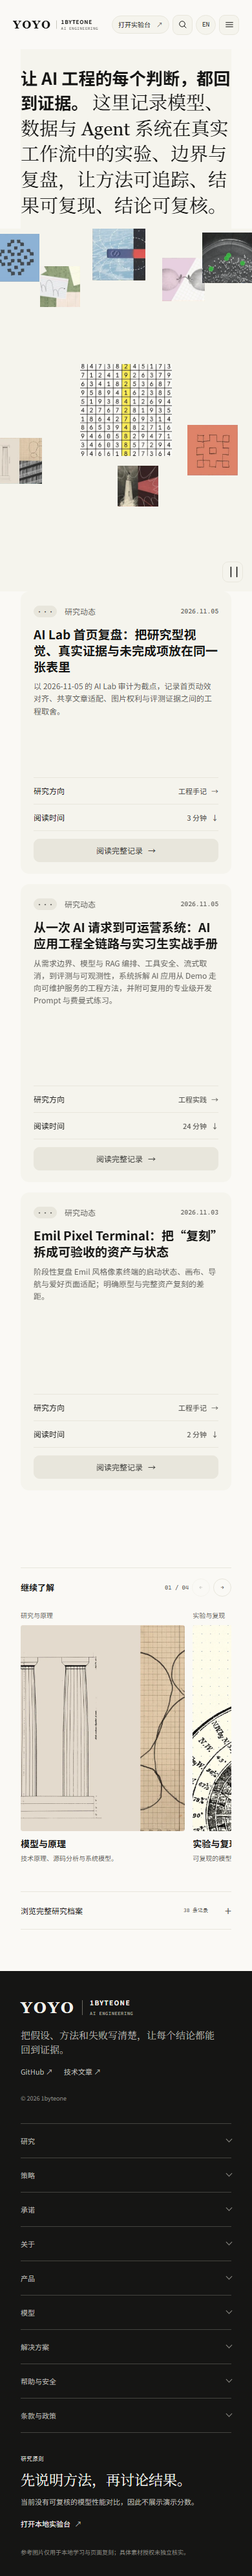
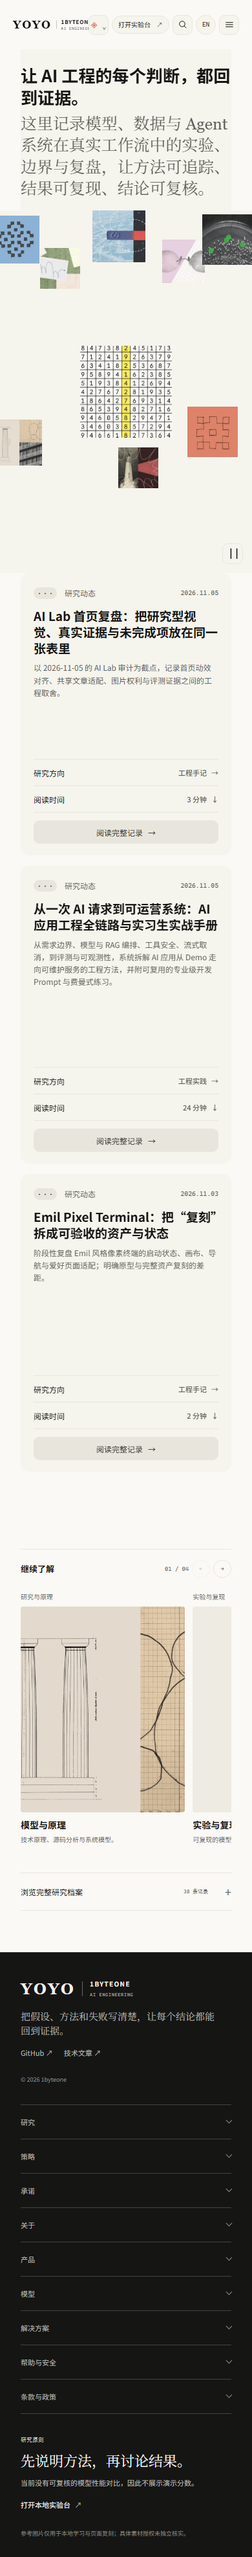
fix: align ai lab theme switcher and hero typography

diff --git a/static/css/ai-lab.css b/static/css/ai-lab.css
@@ -672,6 +672,58 @@ body.ai-lab-home-page .al-ref-header[data-scrolled="true"] .al-ref-brand-compact
 .al-ref-try:hover { border-color: var(--al-home-control-hover-border); background: var(--al-home-control-hover); }
 .al-ref-try span { color: var(--al-muted); transition: transform 170ms ease; }
 .al-ref-try:hover span { transform: translate(2px,-2px); }
+.ai-lab-page .theme-manager {
+  --tm-ink: var(--al-ink);
+  --tm-muted: var(--al-muted);
+  --tm-line: var(--al-line);
+  --tm-surface: var(--al-paper);
+  --tm-hover: var(--al-home-control-hover);
+  --tm-accent: var(--al-accent);
+  font-family: var(--al-sans);
+}
+.ai-lab-page .theme-manager-trigger {
+  min-height: 28px;
+  gap: 7px;
+  padding: 0 10px;
+  border-color: var(--al-line);
+  border-radius: 999px;
+  background: var(--al-home-pill);
+  color: var(--al-ink);
+  font-size: 11px;
+}
+.ai-lab-page .theme-manager-trigger:hover,
+.ai-lab-page .theme-manager[open] > .theme-manager-trigger {
+  border-color: var(--al-line-strong);
+  background: var(--al-home-control-hover);
+  box-shadow: 0 0 0 1px var(--al-line-strong);
+}
+.ai-lab-page .theme-manager-trigger-icon { color: var(--al-accent); font-size: 13px; }
+.ai-lab-page .theme-manager-trigger-copy { max-width: 90px; }
+.ai-lab-page .theme-manager-trigger-copy > span { color: var(--al-muted); font-family: var(--al-mono); font-size: 8px; }
+.ai-lab-page .theme-manager-trigger-copy strong { font-size: 10px; font-weight: 650; }
+.ai-lab-page .theme-manager-trigger-chevron { color: var(--al-muted); font-size: 12px; }
+.ai-lab-page .theme-manager-panel {
+  top: calc(100% + 10px);
+  width: min(380px, calc(100vw - 32px));
+  border-color: var(--al-line);
+  border-radius: 14px;
+  background: var(--al-paper);
+  box-shadow: 0 20px 60px rgb(20 20 18 / 16%);
+}
+.ai-lab-page .theme-manager-heading { padding: 15px 16px 12px; border-color: var(--al-line); }
+.ai-lab-page .theme-manager-eyebrow { color: var(--al-accent); letter-spacing: .08em; }
+.ai-lab-page .theme-manager-heading strong { font-family: var(--al-serif); font-size: 16px; font-weight: 400; }
+.ai-lab-page .theme-manager-center-link { color: var(--al-accent); font-family: var(--al-mono); font-size: 9px; }
+.ai-lab-page .theme-manager-search { margin: 11px 14px 8px; border-color: var(--al-line); border-radius: 8px; }
+.ai-lab-page .theme-manager-shortlist { padding-inline: 15px; border-color: color-mix(in srgb, var(--al-line) 76%, transparent); }
+.ai-lab-page .theme-manager-quick-item { padding: 6px 4px; border-radius: 7px; }
+.ai-lab-page .theme-manager-quick-item:hover { background: var(--al-home-control-hover); }
+.ai-lab-page .theme-manager-quick-link strong { font-size: 11px; }
+.ai-lab-page .theme-manager-quick-link small { font-size: 9px; }
+.ai-lab-page .theme-manager-star[aria-pressed="true"], .ai-lab-page .theme-manager-star:hover { color: var(--al-accent); }
+.ai-lab-page .theme-manager-default-row { padding: 12px 15px; }
+.ai-lab-page .theme-manager-set-default { border-color: var(--al-line); border-radius: 999px; }
+.ai-lab-page .theme-manager-set-default:hover, .ai-lab-page .theme-manager-set-default[aria-pressed="true"] { border-color: var(--al-accent); background: var(--al-accent); color: #fff; }
 .al-ref-icon, .al-ref-menu-toggle {
   width: 28px;
   height: 28px;
@@ -743,14 +795,14 @@ body.ai-lab-home-page .al-ref-header[data-scrolled="true"] .al-ref-brand-compact
 .al-home-stage[data-art-error="true"] .al-home-art-canvas { opacity: 0; }
 .al-home-stage-stories { position: absolute; z-index: 2; inset: 0; display: grid; align-items: center; justify-items: center; padding: 24px 28px 66px; pointer-events: none; }
 .al-home-stage-stories[inert] { user-select: none; }
-.al-home-story { grid-area: 1 / 1; width: min(760px, calc(100% - 48px)); min-height: 0; padding: 34px clamp(20px, 5vw, 56px); border: 1px solid color-mix(in srgb, var(--al-line) 78%, transparent); border-radius: 10px; background: color-mix(in srgb, var(--al-home-panel) 92%, transparent); box-shadow: 0 18px 55px rgb(20 20 18 / 10%); backdrop-filter: blur(12px); text-align: center; pointer-events: none; opacity: 0; visibility: hidden; transform: translateY(12px); transition: opacity 300ms cubic-bezier(.16,1,.3,1), transform 360ms cubic-bezier(.16,1,.3,1), visibility 300ms; }
+.al-home-story { grid-area: 1 / 1; width: min(760px, calc(100% - 48px)); min-height: 0; padding: clamp(30px, 4vw, 46px) clamp(24px, 5vw, 52px); border: 1px solid color-mix(in srgb, var(--al-line) 78%, transparent); border-radius: 10px; background: color-mix(in srgb, var(--al-home-panel) 99%, transparent); box-shadow: 0 18px 55px rgb(20 20 18 / 10%); backdrop-filter: blur(12px); text-align: center; pointer-events: none; opacity: 0; visibility: hidden; transform: translateY(12px); transition: opacity 300ms cubic-bezier(.16,1,.3,1), transform 360ms cubic-bezier(.16,1,.3,1), visibility 300ms; }
 .al-home-stage-stories[data-visible="true"] .al-home-story.is-active { opacity: 1; visibility: visible; transform: translateY(0) scale(1); pointer-events: auto; }
 
 .al-home-story-copy { max-width: 560px; }
 .al-home-kicker { margin: 0 0 13px; color: var(--al-muted); font-family: var(--al-mono); font-size: 11px; letter-spacing: .08em; line-height: 1.4; text-transform: uppercase; }
-.al-home-story h2 { max-width: 900px; margin: 0 auto; font-family: var(--al-sans); font-size: clamp(30px, 3.8vw, 48px); font-weight: 630; line-height: 1.08; text-wrap: balance; }
+.al-home-story h2 { max-width: 650px; margin: 0 auto; font-family: var(--al-sans); font-size: clamp(28px, 3vw, 42px); font-weight: 580; line-height: 1.13; letter-spacing: 0; text-wrap: balance; }
 .al-home-story h2 a:hover { color: var(--al-accent); }
-.al-home-story-summary { max-width: 700px; margin: 13px auto 17px; color: var(--al-muted); font-size: 14px; line-height: 1.6; }
+.al-home-story-summary { max-width: 560px; margin: 13px auto 17px; color: var(--al-muted); font-size: 13px; line-height: 1.65; }
 .al-home-story-cta { min-height: 32px; display: inline-flex; align-items: center; gap: 9px; padding: 0 13px; border: 1px solid var(--al-line-strong); border-radius: 999px; background: var(--al-home-panel); color: var(--al-ink) !important; font-size: 11px; transition: opacity 180ms ease, transform 180ms ease, border-color 180ms ease; }
 .al-home-story-cta:hover { opacity: .84; }
 .al-home-story-cta:active { transform: scale(.97); }
@@ -952,6 +1004,10 @@ body.ai-lab-home-page .al-ref-header[data-scrolled="true"] .al-ref-brand-compact
   .al-ref-brand { grid-column: 1; min-width: 0; justify-items: start; }
   .al-ref-tools { grid-column: 2; }
   .al-ref-tools { gap: 5px; }
+  /* Keep the brand legible when the compact tool row is at its tightest. */
+  .ai-lab-page .theme-manager-trigger { width: 31px; min-height: 31px; justify-content: center; padding: 0; border-radius: 9px; }
+  .ai-lab-page .theme-manager-trigger-copy { display: none; }
+  .ai-lab-page .theme-manager-trigger-icon { font-size: 14px; }
   .al-ref-icon, .al-ref-menu-toggle { width: 31px; height: 31px; border-radius: 9px; }
   .al-ref-language { width: 31px; min-height: 31px; }
   .al-home-shell, .al-ref-footer-inner { width: calc(100% - 64px); }
@@ -1010,6 +1066,14 @@ body.ai-lab-home-page .al-ref-header[data-scrolled="true"] .al-ref-brand-compact
   .al-ref-footer-index { grid-row: 2; }
   .al-ref-footer-mission { grid-column: auto; }
   .al-ref-footer-mission h2 { font-size: 22px; }
+}
+
+@media (max-width: 720px) {
+  /* Treat the lead and its explanation as two editorial levels on narrow screens. */
+  .al-home-intro h1 strong,
+  .al-home-intro h1 em { display: block; }
+  .al-home-intro h1 strong { margin-bottom: 7px; }
+  .al-home-intro h1 em { color: var(--al-muted); font-size: .86em; line-height: 1.34; }
 }
 @media (min-width: 641px) and (max-width: 700px) {
   .al-ref-header-inner { width: calc(100% - 64px); min-height: 84px; grid-template-rows: 84px auto; column-gap: 8px; row-gap: 0; }

diff --git a/layouts/partials/ai-lab/header.html b/layouts/partials/ai-lab/header.html
@@ -16,7 +16,6 @@
         <div class="al-ref-dropdown-panel"><a href="{{ "ai-lab/benchmarks/" | relLangURL }}"><span>{{ if $zh }}评测方法{{ else }}Methods{{ end }}</span><small>04</small></a><a href="{{ "ai-lab/research/" | relLangURL }}"><span>{{ if $zh }}安全与治理{{ else }}Safety &amp; governance{{ end }}</span><small>02</small></a></div>
       </details>
       <a class="al-ref-pill" href="{{ "ai-lab/engineering/" | relLangURL }}">{{ if $zh }}承诺{{ else }}Commitments{{ end }}</a>
-      <a class="al-ref-theme-center" href="{{ "theme-center/" | relLangURL }}"{{ if eq .Section "theme-center" }} aria-current="page"{{ end }}><span aria-hidden="true">✦</span>{{ if $zh }}主题中心{{ else }}Theme center{{ end }}<span aria-hidden="true">↗</span></a>
       <button class="al-ref-nav-theme" type="button" data-lab-theme-toggle aria-label="{{ if $zh }}切换明暗主题{{ else }}Toggle color theme{{ end }}">
         <span aria-hidden="true">◐</span><span>{{ if $zh }}切换明暗主题{{ else }}Color mode{{ end }}</span>
       </button>
@@ -36,6 +35,7 @@
           <a href="{{ "ai-lab/contact/" | relLangURL }}"><span>{{ if $zh }}联系与协作{{ else }}Contact{{ end }}</span><span aria-hidden="true">↗</span></a>
         </div>
       </details>
+      {{ partial "theme-switcher.html" . }}
       <a class="al-ref-try" href="{{ "ai-lab/playground/" | relLangURL }}">{{ if $zh }}打开实验台{{ else }}Open Lab{{ end }}<span aria-hidden="true">↗</span></a>
       <button class="al-ref-icon" type="button" data-lab-search-open aria-label="{{ if $zh }}搜索研究档案{{ else }}Search the archive{{ end }}" title="{{ if $zh }}搜索{{ else }}Search{{ end }}">
         <svg viewBox="0 0 24 24" aria-hidden="true"><circle cx="10.5" cy="10.5" r="6.4"></circle><path d="m15.2 15.2 4.3 4.3"></path></svg>

diff --git a/layouts/partials/theme-switcher.html b/layouts/partials/theme-switcher.html
@@ -22,7 +22,7 @@
 {{- $activePath = printf "%s%s" $activePath $languageSuffix -}}
 <link rel="stylesheet" href="{{ "css/theme-manager.css" | relURL }}">
 <details class="theme-manager" data-theme-manager data-theme-current="{{ $activeID }}" data-theme-fallback="{{ $activeID }}" data-theme-ui-lang="{{ if $zh }}zh{{ else }}en{{ end }}"{{ if and .IsHome (not .Site.Params.theme_preview) (not hugo.IsServer) }} data-theme-root-home data-theme-lang="{{ if $zh }}zh{{ else }}en{{ end }}"{{ end }}>
-  <summary class="theme-manager-trigger" aria-label="{{ if $zh }}主题切换，当前为{{ $activeLabel }}{{ else }}Theme switcher, current theme: {{ $activeLabel }}{{ end }}">
+  <summary class="theme-manager-trigger" title="{{ if $zh }}切换主题{{ else }}Switch theme{{ end }}" aria-label="{{ if $zh }}主题切换，当前为{{ $activeLabel }}{{ else }}Theme switcher, current theme: {{ $activeLabel }}{{ end }}">
     <span class="theme-manager-trigger-icon" aria-hidden="true">◈</span>
     <span class="theme-manager-trigger-copy"><span>{{ if $zh }}主题{{ else }}Theme{{ end }}</span><strong data-theme-current-label>{{ $activeLabel }}</strong></span>
     <span class="theme-manager-trigger-chevron" aria-hidden="true">⌄</span>

diff --git a/tools/ai-lab/browser-regression.py b/tools/ai-lab/browser-regression.py
@@ -127,6 +127,18 @@ def check_page(page, url: str, language: str, viewport_name: str, output_dir: Pa
 
     language_switch = page.locator("[data-lab-language-switch]").first
     checks["language_switch"] = language_switch.count() and bool(language_switch.get_attribute("href"))
+
+    manager = page.locator("[data-theme-manager]").first
+    if manager.count():
+        trigger = manager.locator("summary").first
+        trigger.click()
+        page.wait_for_timeout(60)
+        checks["theme_manager_popup"] = manager.get_attribute("open") is not None and manager.locator(".theme-manager-panel").is_visible()
+        checks["theme_manager_center_link"] = manager.locator(".theme-manager-center-link").count() > 0
+        page.keyboard.press("Escape")
+    else:
+        checks["theme_manager_popup"] = False
+        checks["theme_manager_center_link"] = False
     return {
         "url": url,
         "language": language,
